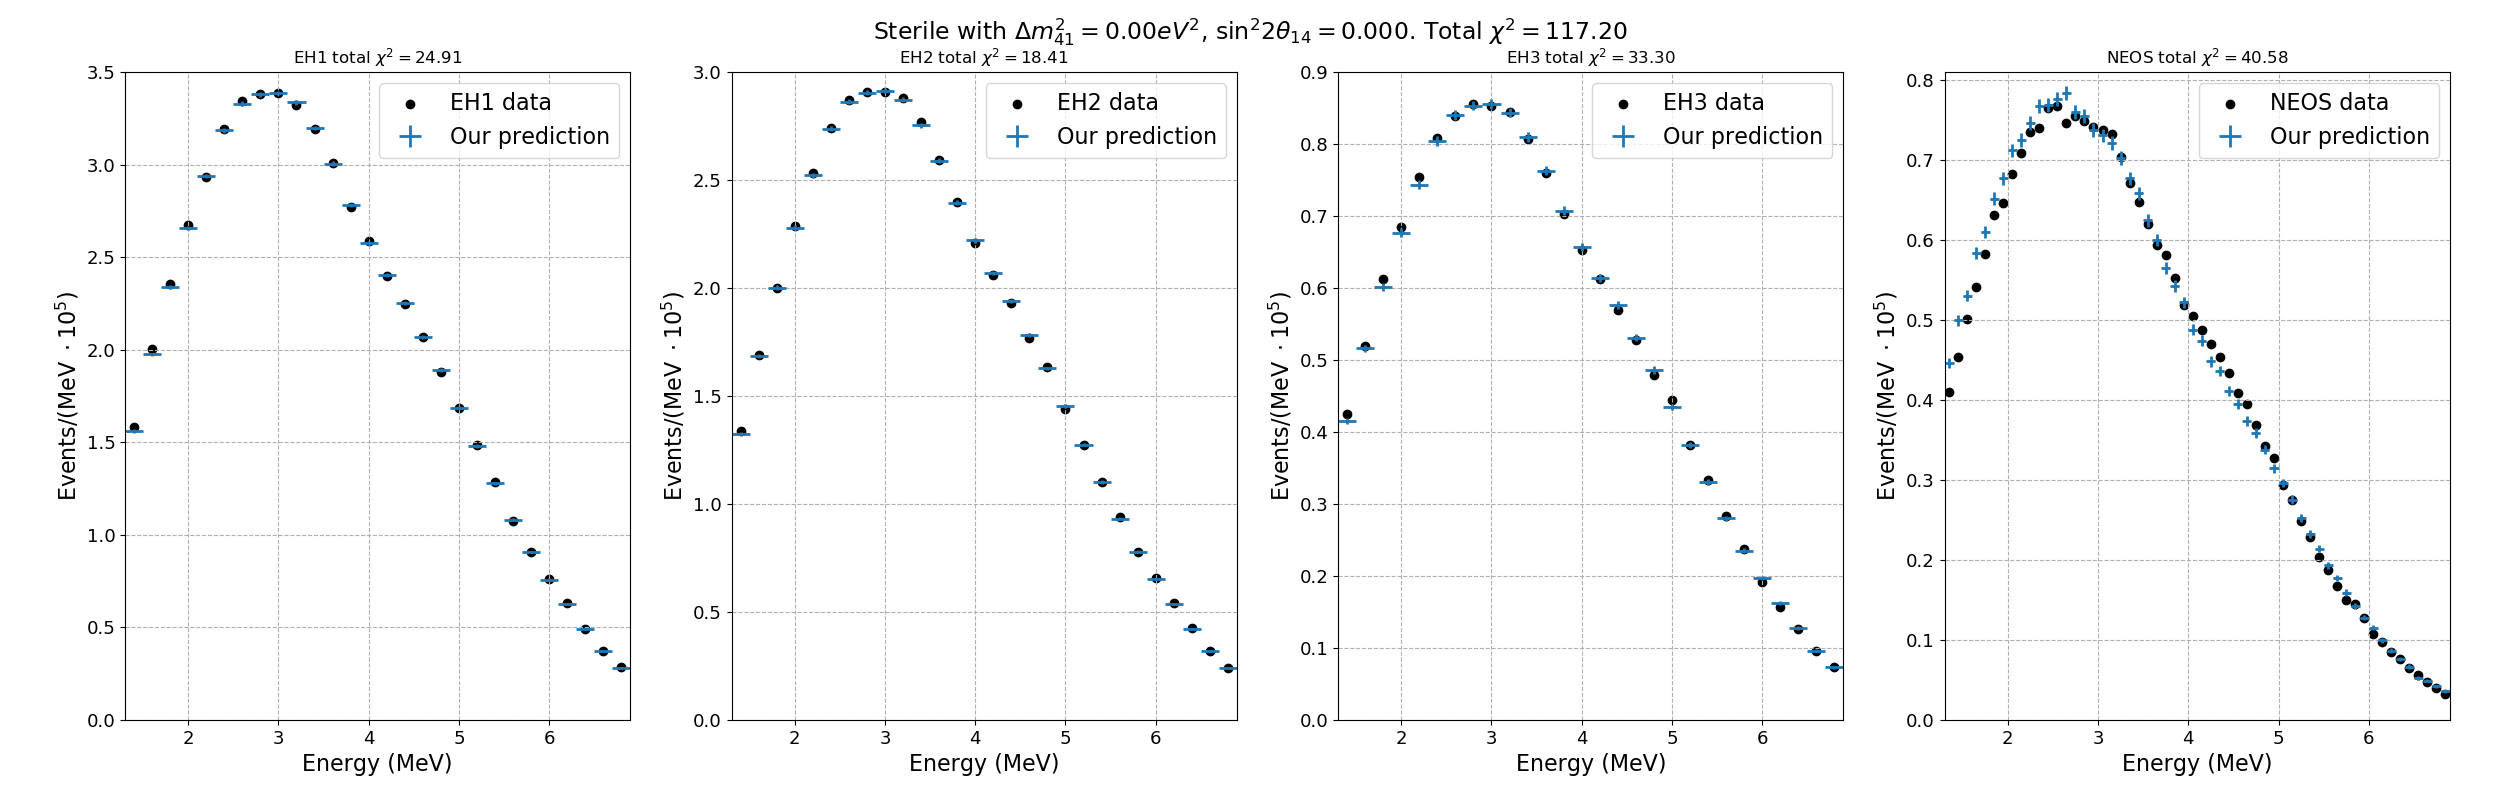
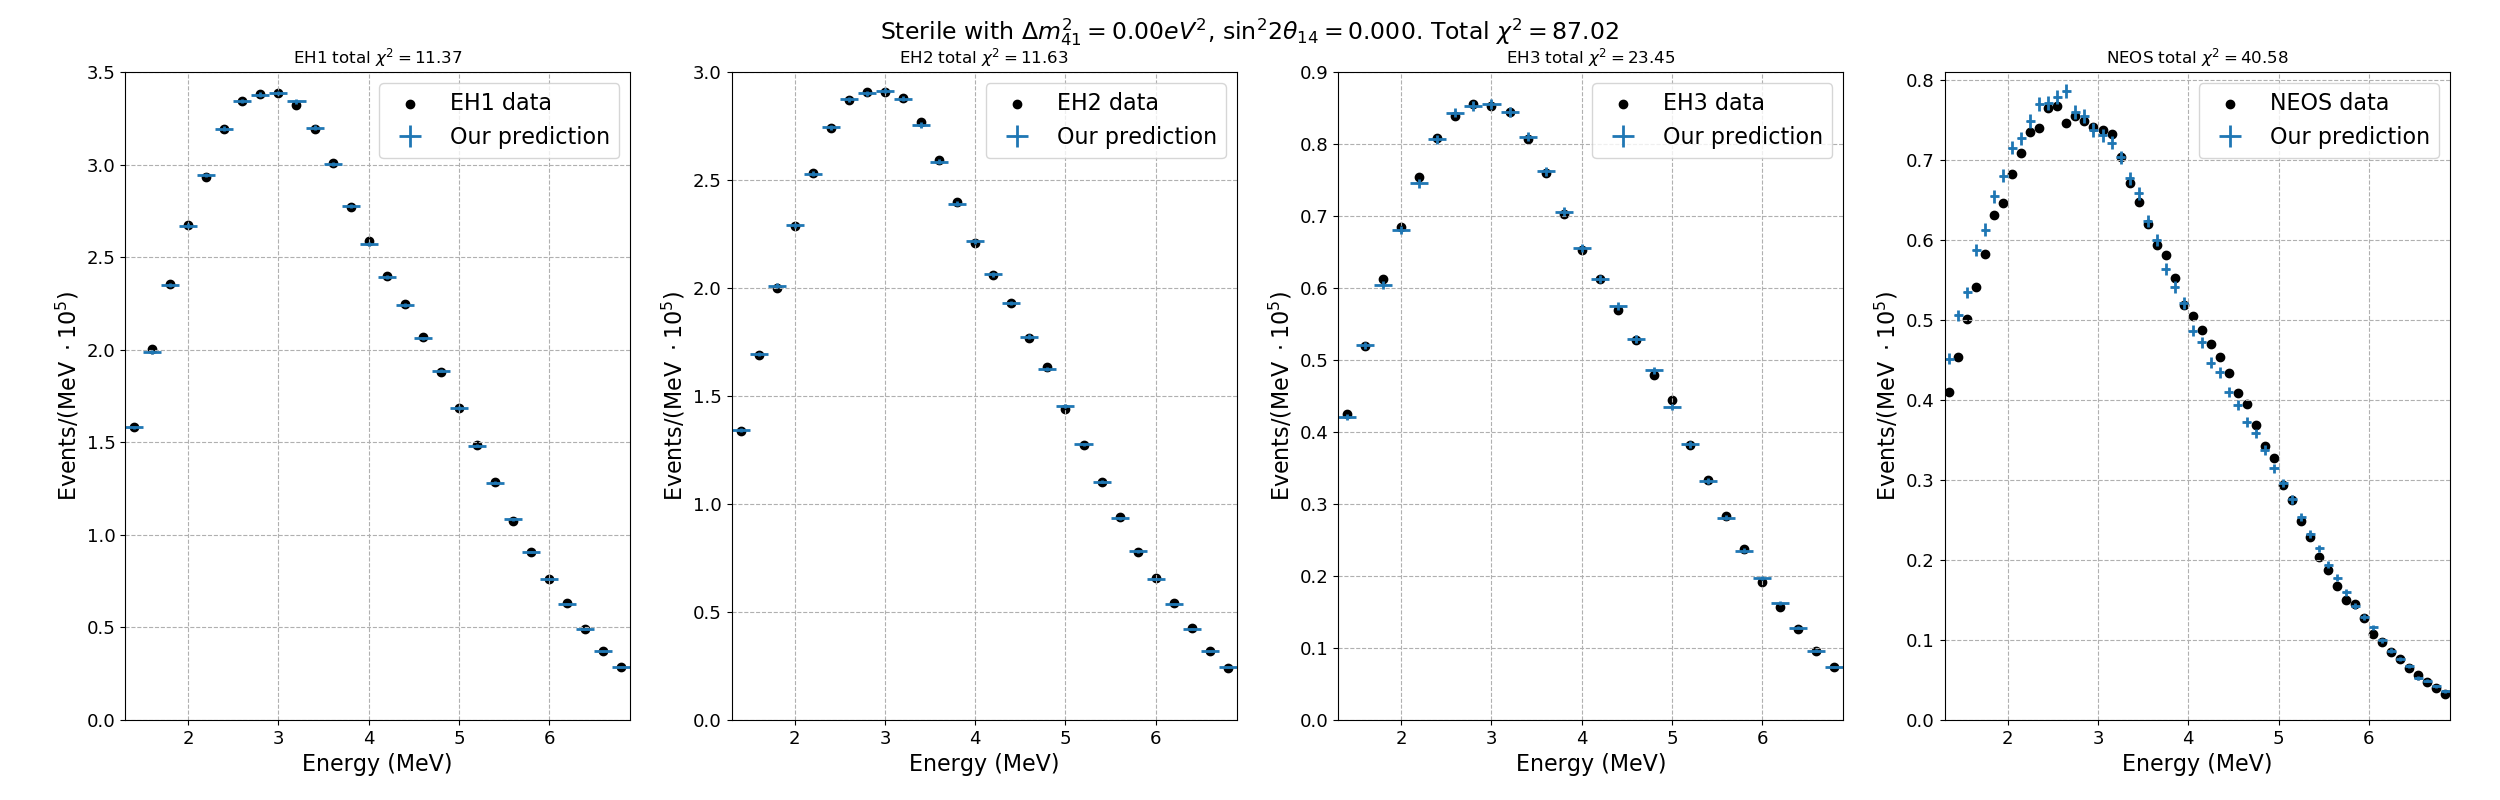
Implemented minimization of nuissances.

Changed region(s): [[0.3432, 0.0312, 0.6552, 0.0938], [0.156, 0.0625, 0.1872, 0.0938]]

diff --git a/GlobalFit/GlobalFitNuissances.py b/GlobalFit/GlobalFitNuissances.py
@@ -10,6 +10,7 @@ import DayaBay as DB
 import Models
 import GlobalFitData as GFD
 import numpy as np
+from scipy.optimize import minimize
 
 
 class GlobalFit:
@@ -45,7 +46,6 @@ class GlobalFit:
         self.NEOSRatioStatError = GFD.ratio_data['NEOS'][:,1]
         self.NEOSRatioSystError = GFD.ratio_data['NEOS'][:,2]
         self.PredictedNEOSDataSM = GFD.neos_data_SM['NEOS']
-
 
         # These are the objects which allow to compute the event expectations for each experiment.
         self.DBexp = DB.DayaBay()
@@ -107,18 +107,22 @@ class GlobalFit:
     #     return norm
 
 
-    def get_nuissance_parameters(self,exp_events):
+    def get_initial_nuissance_parameters(self,exp_events, exp_events_SM_NEOS = np.array([None])):
         """
         Input:
         events: a dictionary with a string key for each experimental hall, linking to
         a numpy array for some histogram of events. In principle, it should be
-        the number of expected number of events of the model we want to study.
+        the number of expected number of events of the model we want to study (without bkg).
 
         Output:
-        Returns the nuissance parameters which minimise the Poisson probability at all the
+        Returns an initial guess for the nuissance parameters per bin which minimize the chi2 at all
         experimental halls simultaneously (i.e. each nuissance is the same for all halls).
-        They are computed as alpha_i = (sum(data_EHi)-sum(bkg_EHi))/(sum(exp_EHi))
+        This initial guess is analytical and has a complicated formula, implemented here.
+        The idea is that they minimize ((ObservedData-PredictedBackground)-exp_events).
         """
+        if exp_events_SM_NEOS.any() == None:
+            exp_events_SM_NEOS = self.PredictedNEOSDataSM
+
         TotalNumberOfEventsPerBin = 0.
         TotalNumberOfBkgPerBin = 0.
         TotalNumberOfExpEvents = 0.
@@ -131,13 +135,10 @@ class GlobalFit:
 
         # One has to consider that NEOS has twice as many bins.
         # We decided that two consecutive bin contributed to and had the same nuissance parameter.
-        # TotalNumberOfEventsPerBin += self.ObservedData['NEOS'][::2]+self.ObservedData['NEOS'][1::2]
-        # TotalNumberOfBkgPerBin += self.PredictedBackground['NEOS'][::2]+self.PredictedBackground['NEOS'][1::2]
-        # TotalNumberOfExpEvents += exp_events['NEOS'][::2]+exp_events['NEOS'][1::2]
-        lam4 = exp_events['NEOS'][::2]/self.PredictedData['NEOS'][::2]
-        lam5 = exp_events['NEOS'][1::2]/self.PredictedData['NEOS'][1::2]
-        k4 = self.NEOSRatioData[::2]-self.PredictedBackground['NEOS'][::2]/self.PredictedData['NEOS'][::2]
-        k5 = self.NEOSRatioData[1::2]-self.PredictedBackground['NEOS'][1::2]/self.PredictedData['NEOS'][1::2]
+        lam4 = exp_events['NEOS'][::2]/exp_events_SM_NEOS[::2]
+        lam5 = exp_events['NEOS'][1::2]/exp_events_SM_NEOS[1::2]
+        k4 = self.NEOSRatioData[::2]-self.PredictedBackground['NEOS'][::2]/exp_events_SM_NEOS[::2]
+        k5 = self.NEOSRatioData[1::2]-self.PredictedBackground['NEOS'][1::2]/exp_events_SM_NEOS[1::2]
         sigma = np.diag(self.NeutrinoCovarianceMatrix['NEOS'])#*self.ObservedData['NEOS']**2 #squared of sigma!
 
         sig4 = sigma[::2]
@@ -147,17 +148,78 @@ class GlobalFit:
         nuissances = sumA
         nuissances += np.sqrt(4*(TotalNumberOfEventsPerBin-TotalNumberOfBkgPerBin)*sig4*sig5*sumB + sumA**2)
         nuissances /= 2*sumB
-        # print('Nuissance: ',nuissances[0])
 
-        # nuissances = (TotalNumberOfEventsPerBin-TotalNumberOfBkgPerBin)/(TotalNumberOfExpEvents)
+        return nuissances
 
-        # As we said, each nuissance corresponds to two consecutive bins in NEOS.
+
+
+    def get_chi2_from_nuissances(self,nuissances, exp_events, exp_events_SM_NEOS = np.array([None])):
+        """
+        Computes a chi2 given a list of expected_events and the nuissances which to apply to it.
+
+        Input:
+        exp_events (float np.array): the expected events (without background) with which
+                                     to compute the chi2.
+        nuissances (float np.array): arbitrary nuissances to apply to exp_events.
+        exp_events_SM_NEOS (float np.array): the predicted data for NEOS from the null hyp (SM 3nu),
+                                             used to normalize the covariance matrix.
+
+        Output (float): the value of the chi2.
+        """
+        if exp_events_SM_NEOS.any() == None:
+            exp_events_SM_NEOS = self.PredictedNEOSDataSM
+
         nuissancesdict = dict([(set_name,nuissances) for set_name in self.sets_names[:-1]])
         nuissancesdict.update({'NEOS':np.repeat(nuissances,2)})
+        exp_events = dict([(set_name,exp_events[set_name]*nuissancesdict[set_name]+self.PredictedBackground[set_name])
+                                   for set_name in self.sets_names])
 
-        return nuissancesdict
+        Data = self.ObservedData
 
-    def get_expectation(self,model,do_we_integrate_DB = False, do_we_integrate_NEOS = False, do_we_average_DB = False, do_we_average_NEOS = False):
+        # For DB, the Poisson likelihood is sufficient.
+        TotalLogPoisson = 0.0
+        for set_name in self.sets_names[:-1]:
+            lamb = exp_events[set_name]
+            k = Data[set_name]
+            TotalLogPoisson += np.sum(k - lamb + k*np.log(lamb/k))
+
+        Vinv = self.get_inverse_covariance_matrix()['NEOS']
+        teo = exp_events['NEOS']/exp_events_SM_NEOS
+        ratio = self.NEOSRatioData
+
+        chi2_ratio = (teo-ratio).dot(Vinv.dot(teo-ratio))
+        return -2*TotalLogPoisson+chi2_ratio
+
+
+
+    def get_nuissance_parameters(self,exp_events, exp_events_SM_NEOS = np.array([None])):
+        """
+        Computes the nuissance parameters which minimize the chi2 for a given expected events.
+
+        Input:
+        exp_events (float np.array): the expected events (without background).
+        exp_events_SM_NEOS (float np.array): the predicted data for NEOS from the null hyp (SM 3nu),
+                                             used to normalize the covariance matrix.
+
+        Output (float np.array): the nuissance parameters.
+        """
+        if exp_events_SM_NEOS.any() == None:
+            exp_events_SM_NEOS = self.PredictedNEOSDataSM
+
+        # We compute the analytical initial guess of nuissance parameters
+        x0 = self.get_initial_nuissance_parameters(exp_events, exp_events_SM_NEOS = exp_events_SM_NEOS)
+
+        def f(nuissances):
+            # This is just a dummy function for scipy.optimize.minimize
+            return self.get_chi2_from_nuissances(nuissances, exp_events, exp_events_SM_NEOS = exp_events_SM_NEOS)
+
+        res = minimize(f,  x0, method = 'L-BFGS-B')
+        return np.array(res.x)
+
+
+
+    def get_expectation(self,model,do_we_integrate_DB = False, do_we_integrate_NEOS = False, do_we_average_DB = False, do_we_average_NEOS = False,
+                             exp_events_SM_NEOS = np.array([None])):
         """
         Input:
         model: a model from Models.py for which to compute the expected number of events.
@@ -171,16 +233,17 @@ class GlobalFit:
         the error bars of each bin, the lower limits of each bin, and the upper limits of each bin.
         The error bars are purely statistical, i.e. sqrt(N).
         """
+        if exp_events_SM_NEOS.any() == None:
+            exp_events_SM_NEOS = self.PredictedNEOSDataSM
+
         exp_events = self.get_predicted_obs(model,do_integral_DB = do_we_integrate_DB, do_integral_NEOS = do_we_integrate_NEOS,
                                                   do_average_DB  = do_we_average_DB,   do_average_NEOS =  do_we_average_NEOS)
 
-        # We normalise the data from each experimental hall to its own data.
-        # norm = self.normalization_to_data(exp_events) # Huge mistake
-        # exp_events = dict([(set_name,exp_events[set_name]*norm[set_name]) for set_name in self.sets_names])
-
         # We compute and apply the nuissances parameters to all experiments.
-        nuissances = self.get_nuissance_parameters(exp_events)
-        exp_events = dict([(set_name,exp_events[set_name]*nuissances[set_name]+self.PredictedBackground[set_name])
+        nuissances = self.get_nuissance_parameters(exp_events, exp_events_SM_NEOS = exp_events_SM_NEOS)
+        nuissancesdict = dict([(set_name,nuissances) for set_name in self.sets_names[:-1]])
+        nuissancesdict.update({'NEOS':np.repeat(nuissances,2)})
+        exp_events = dict([(set_name,exp_events[set_name]*nuissancesdict[set_name]+self.PredictedBackground[set_name])
                                    for set_name in self.sets_names])
 
         # We build the result inside a dictionary.
@@ -236,30 +299,23 @@ class GlobalFit:
 
         return vinv
 
-    def get_expectation_SM(self,wave_packet = False):
-        if wave_packet == False:
-            modelSM = Models.PlaneWaveSM()
-        if wave_packet == True:
-            modelSM = Models.WavePacketSM()
-
-        exp_events_SM = self.get_predicted_obs(modelSM)
-        nuissances_SM = self.get_nuissance_parameters(exp_events_SM)
-        exp_events_SM = dict([(set_name,exp_events_SM[set_name]*nuissances_SM[set_name]+self.PredictedBackground[set_name])
-                                   for set_name in self.sets_names])
-        return exp_events_SM
-
-
     def get_chi2(self,model, integrate_DB = False, integrate_NEOS = False,
                              average_DB = False, average_NEOS = False,
-                             exp_events_SM = None):
+                             exp_events_SM_NEOS = np.array([None])):
         """
         Input: a  model with which to compute expectations.
         Output: a chi2 statistic comparing data and expectations.
         """
+        if exp_events_SM_NEOS.any() == None:
+            exp_events_SM_NEOS = self.PredictedNEOSDataSM
+
         exp_events = self.get_predicted_obs(model,do_integral_DB = integrate_DB, do_integral_NEOS = integrate_NEOS,
                                                   do_average_DB  = average_DB,   do_average_NEOS =  average_NEOS)
-        nuissances = self.get_nuissance_parameters(exp_events)
-        exp_events = dict([(set_name,exp_events[set_name]*nuissances[set_name]+self.PredictedBackground[set_name])
+
+        nuissances = self.get_nuissance_parameters(exp_events, exp_events_SM_NEOS = exp_events_SM_NEOS)
+        nuissancesdict = dict([(set_name,nuissances) for set_name in self.sets_names[:-1]])
+        nuissancesdict.update({'NEOS':np.repeat(nuissances,2)})
+        exp_events = dict([(set_name,exp_events[set_name]*nuissancesdict[set_name]+self.PredictedBackground[set_name])
                                    for set_name in self.sets_names])
 
         Data = self.ObservedData
@@ -271,13 +327,8 @@ class GlobalFit:
             k = Data[set_name]
             TotalLogPoisson += np.sum(k - lamb + k*np.log(lamb/k))
 
-        if exp_events_SM == None:
-            exp_events_SM = self.PredictedNEOSDataSM
-            # exp_events_SM = self.PredictedData
-
-
         Vinv = self.get_inverse_covariance_matrix()['NEOS']
-        teo = exp_events['NEOS']/exp_events_SM
+        teo = exp_events['NEOS']/exp_events_SM_NEOS
         ratio = self.NEOSRatioData
 
         chi2_ratio = (teo-ratio).dot(Vinv.dot(teo-ratio))
@@ -290,16 +341,25 @@ class GlobalFit:
 # ......................................
 
     def get_expectation_ratio_and_chi2(self,model, integrate_DB = False, integrate_NEOS = False,
-                             average_DB = False, average_NEOS = False, exp_events_SM = None):
+                             average_DB = False, average_NEOS = False,
+                             exp_events_SM_NEOS = np.array([None])):
         """
         Input: a  model with which to compute expectations.
-        Output: a chi2 statistic comparing data and expectations.
+        Output: a chi2 statistic comparing data and expectations and plenty of stuff.
         """
+        if exp_events_SM_NEOS.any() == None:
+            exp_events_SM_NEOS = self.PredictedNEOSDataSM
+
         exp_events = self.get_predicted_obs(model,do_integral_DB = integrate_DB, do_integral_NEOS = integrate_NEOS,
                                                   do_average_DB  = average_DB,   do_average_NEOS =  average_NEOS)
-        nuissances = self.get_nuissance_parameters(exp_events)
-        exp_events = dict([(set_name,exp_events[set_name]*nuissances[set_name]+self.PredictedBackground[set_name])
+
+        nuissances = self.get_nuissance_parameters(exp_events, exp_events_SM_NEOS = exp_events_SM_NEOS)
+        nuissancesdict = dict([(set_name,nuissances) for set_name in self.sets_names[:-1]])
+        nuissancesdict.update({'NEOS':np.repeat(nuissances,2)})
+        exp_events = dict([(set_name,exp_events[set_name]*nuissancesdict[set_name]+self.PredictedBackground[set_name])
                                    for set_name in self.sets_names])
+
+
         Data = self.ObservedData
 
         # For DB, the Poisson likelihood is sufficient.
@@ -309,13 +369,9 @@ class GlobalFit:
             k = Data[set_name]
             AllChi2.append(-2*np.sum(k - lamb + k*np.log(lamb/k)))
 
-        # For NEOS, we need to fit the ratio. Therefore, we need the expectation from the null hypothesis (SM).
-        if exp_events_SM == None:
-            exp_events_SM = self.get_expectation_SM()
-        # It might be more useful to tabulate this and not compute it every time.
 
         Vinv = self.get_inverse_covariance_matrix()['NEOS']
-        teo = exp_events['NEOS']/exp_events_SM['NEOS']
+        teo = exp_events['NEOS']/exp_events_SM_NEOS
         ratio = self.NEOSRatioData
 
         AllChi2.append((teo-ratio).dot(Vinv.dot(teo-ratio)))

diff --git a/GlobalFit/GlobalFitData.py b/GlobalFit/GlobalFitData.py
@@ -86,6 +86,19 @@ all_data = {'EH1': np.concatenate((txt_to_array(dirDB+"DataEH1.dat")[1:29,3:5],t
 
 ratio_data = {'NEOS': txt_to_array(dirNEOS+'AllData.dat')[3:-2,4:]}
 
+neos_data_SM = {'NEOS': np.array([4517.36176096,5059.54129615,5344.43875083,5875.71307814,6129.76758459,
+                                  6547.40771313,6805.87475128,7154.26046943,7270.03639783,7482.72105086,
+                                  7696.24175979,7713.68661912,7792.59449109,7863.56831131,7596.01409129,
+                                  7546.82407334,7372.96447092,7306.94331942,7218.13638212,7034.82318852,
+                                  6773.52857204,6584.66521499,6239.13519168,5996.98158414,5638.49164146,
+                                  5414.88801142,5210.29025716,4866.41747015,4723.54608369,4466.82841058,
+                                  4346.31194421,4101.88594656,3939.30305093,3726.62569052,3582.71286085,
+                                  3373.86474197,3147.8437743,2962.89045478,2758.50707125,2533.57179556,
+                                  2324.68323806,2145.56683505,1938.97420276,1780.84130096,1595.28943724,
+                                  1425.20551605,1283.78000348,1156.44937347,995.62217022,865.76218956,
+                                  764.20402218,670.08816731,528.22701962,492.46815623,421.16728167,
+                                  362.07369061])}
+
 # RECONSTRUCTION MATRIX
 # ---------------------
 

diff --git a/GlobalFit/EventExpectationPlots.py b/GlobalFit/EventExpectationPlots.py
@@ -9,7 +9,8 @@ sys.path.append(os.getcwd()[:-10]+"/DayaBay")
 
 import numpy as np
 import time
-import GlobalFit as GF
+# import GlobalFit as GF
+import GlobalFitNuissances as GF
 import Models
 
 import matplotlib.pyplot as plt
@@ -25,8 +26,8 @@ Model_osc = Models.PlaneWaveSM()
 # Model_osc = Models.WavePacketSM()
 
 # Sterile parameters
-sin2 = 0.06
-dm2 = 0.5
+sin2 = 0.8
+dm2 = 9.5
 Model_ste = Models.PlaneWaveSterile(Sin22Th14 = sin2, DM2_41 = dm2)
 # Model_ste = Models.WavePacketSterile(Sin22Th14 = sin2, DM2_41 = dm2)
 
@@ -67,6 +68,7 @@ pred = all[0]
 
 chi2_per_exp = all[2]
 ratio = all[1]
+print(chi2_per_exp)
 
 
 # -------------------------------------------------------

diff --git a/GlobalFit/SterileFit.py b/GlobalFit/SterileFit.py
@@ -3,7 +3,7 @@ import os
 common_dir = '/Common_cython'
 sys.path.append(os.getcwd()[:-10]+common_dir)
 
-import GlobalFit as GF
+import GlobalFitNuissances as GF
 import Models
 import time
 

diff --git a/GlobalFit/FitPlots.py b/GlobalFit/FitPlots.py
@@ -11,7 +11,7 @@ import numpy as np
 import matplotlib
 
 import Models
-import GlobalFit as GF
+import GlobalFitNuissances as GF
 
 path_to_style = main_dir + common_dir
 dir = 'PlotData/'
